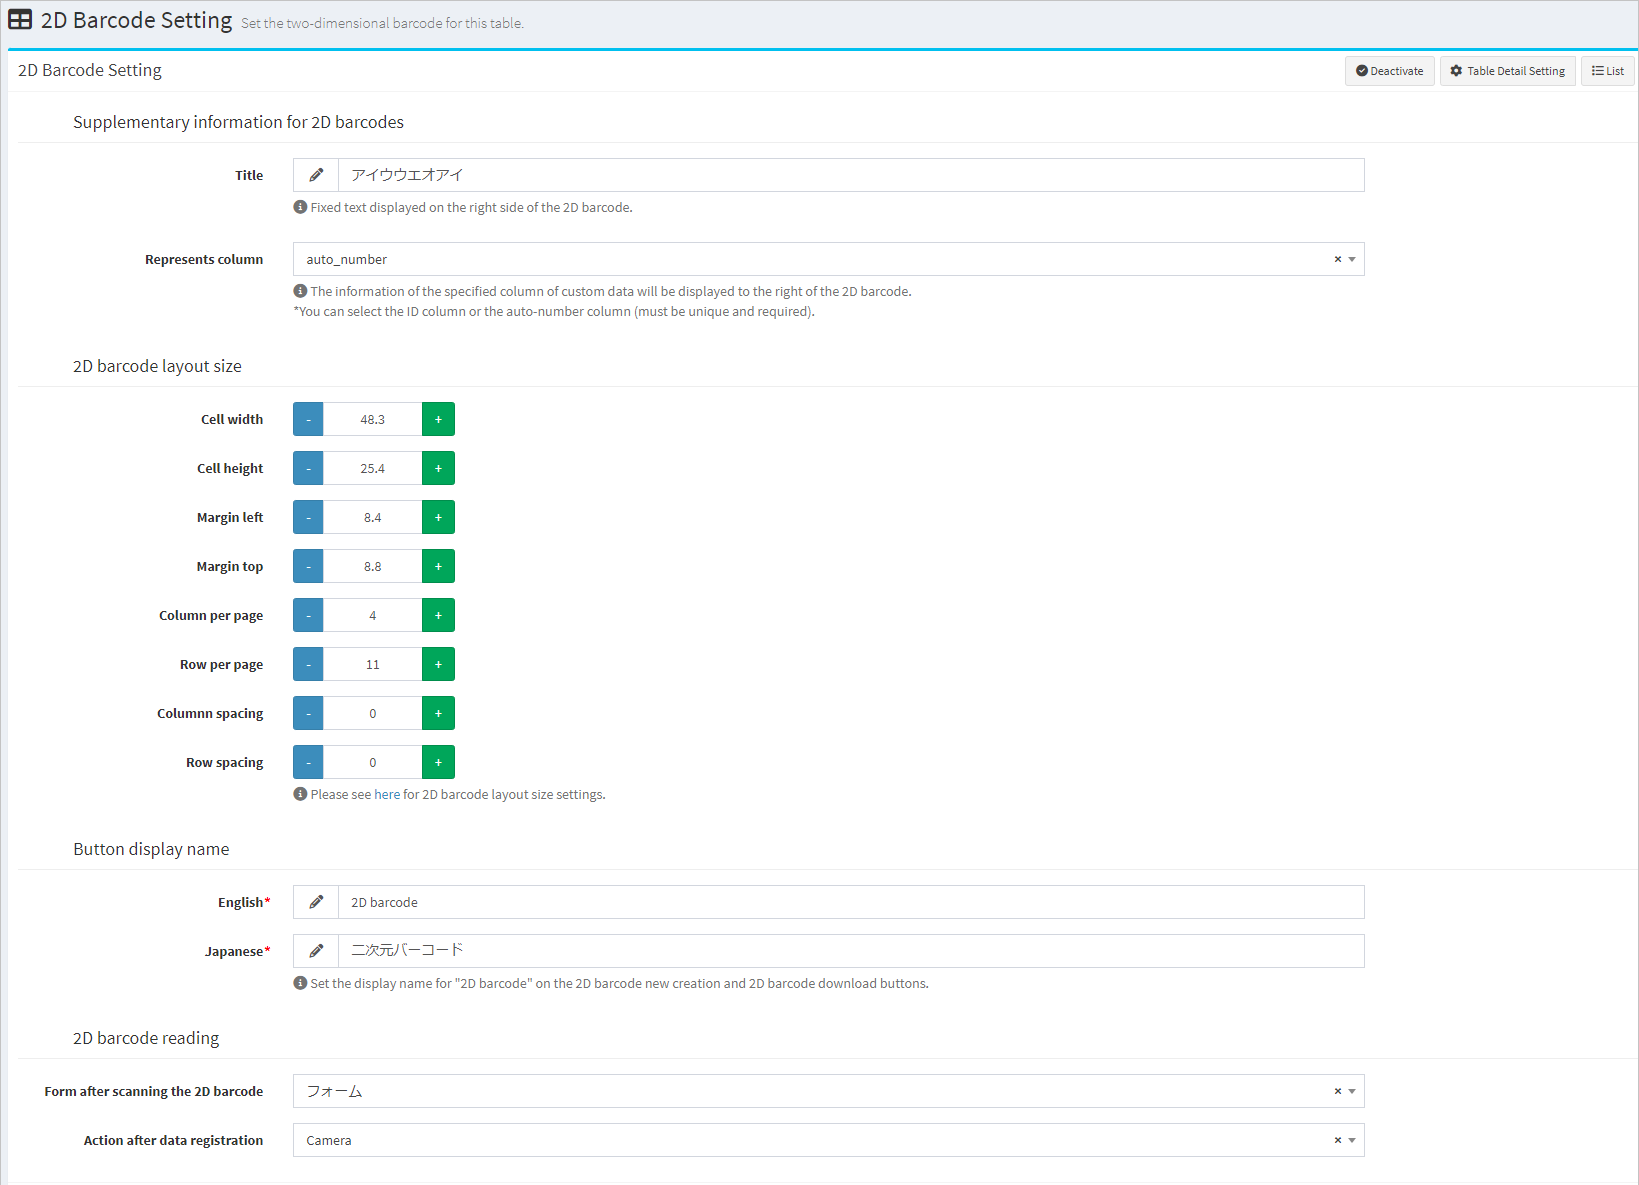
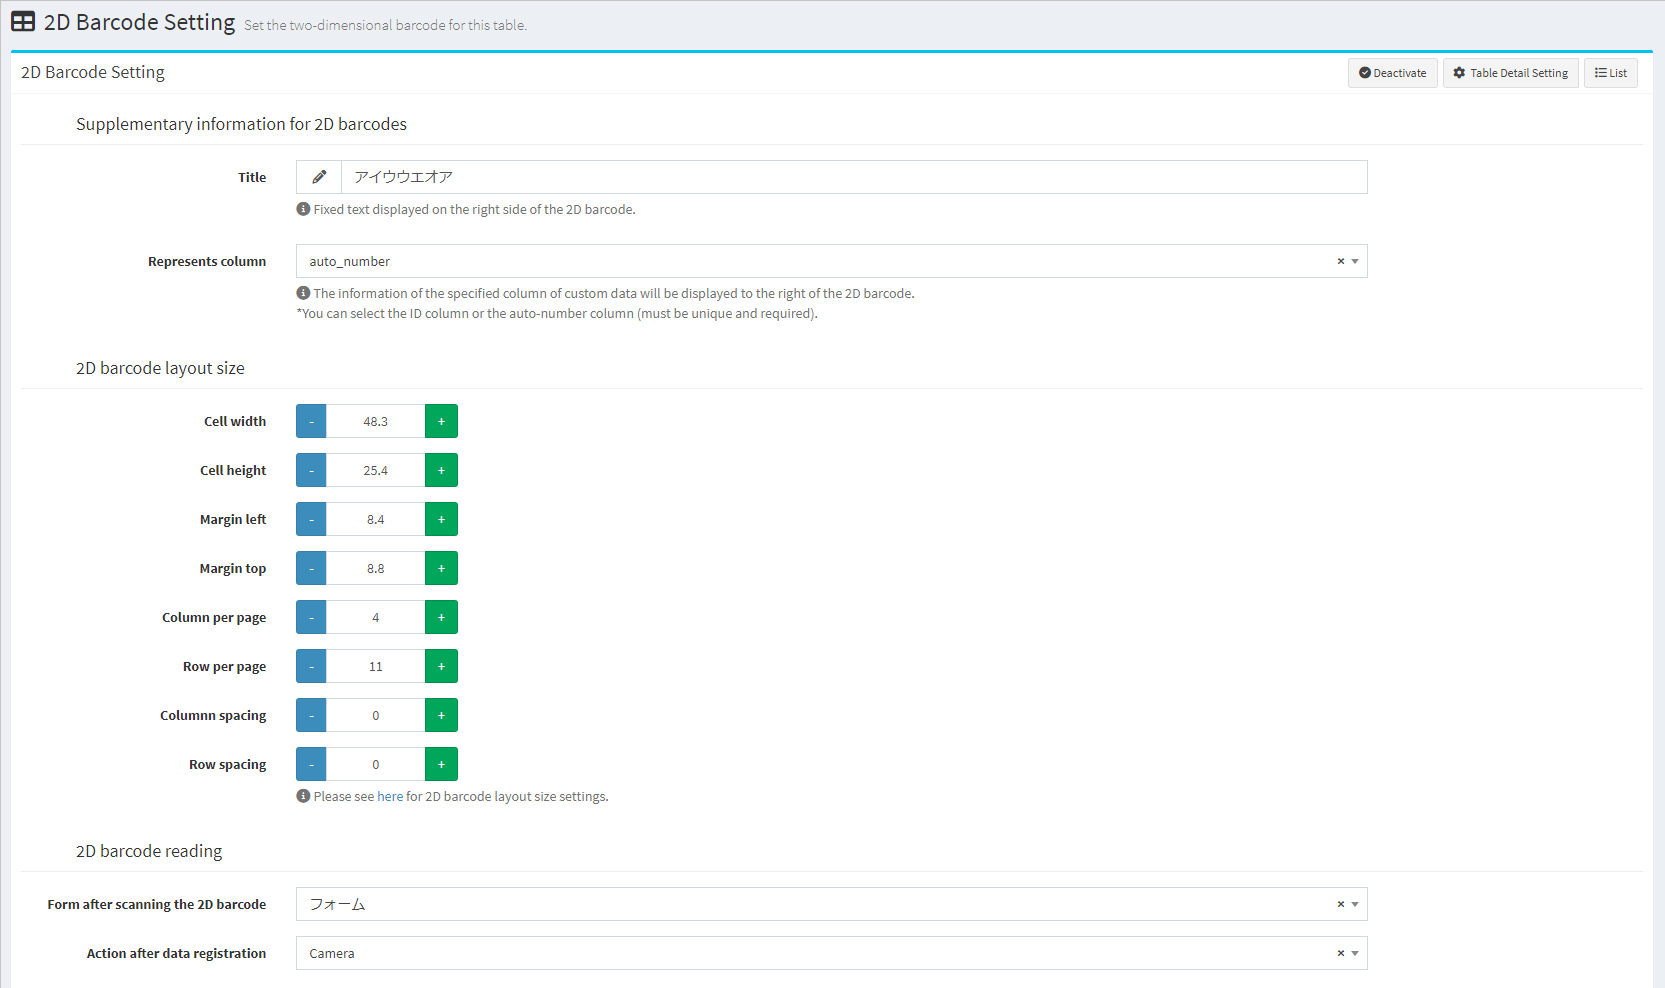
update manual qr code

diff --git a/docs/2d_barcode.md b/docs/2d_barcode.md
@@ -43,15 +43,6 @@ Please refer to the table below.
 
 ![2D barcode page](img/2d_barcode/barcode4.png)
 
-### Button display name
-Set the display name for "2D barcode" on the 2D barcode new creation and 2D barcode download buttons.
-
-- #### English
-Set the English display name for "2D barcode".
-
-- #### Japanese
-Set the Japanese display name for "2D barcode".
-
 ### 2D barcode reading
 Sets information for reading two-dimensional barcodes. 
 
@@ -71,7 +62,8 @@ After setting, click the "Save" button.
 ![2D barcode page](img/2d_barcode/barcode5.png)
 
 ## Create a new 2D barcode
-- After enabling the 2D barcode function, the "Create new 2D barcode" button will be displayed in the data list of the target table.
+- After enabling the 2D barcode function, the "Create new 2D barcode" button will be displayed in the data list of the target table.  
+You can change the display name of the "2D barcode" on the "Create new 2D barcode" button by changing "EXMENT_TEXT_QR_BUTTON_JA/EN" in the .env file.
 ![2D barcode page](img/2d_barcode/barcode6.png)
 
 - Click "Create new 2D barcode" to display the new 2D barcode creation screen.
@@ -81,7 +73,8 @@ After setting, click the "Save" button.
 ![2D barcode page](img/2d_barcode/barcode8.png)
 
 ## 2D barcode download
-- After enabling the 2D barcode function, a "2D barcode download" button will be displayed in the data list of the target table.
+- After enabling the 2D barcode function, a "2D barcode download" button will be displayed in the data list of the target table.  
+You can change the display name of the "2D barcode" on the "2D barcode download" button by changing "EXMENT_TEXT_QR_BUTTON_JA/EN" in the .env file.
 ![2D barcode page](img/2d_barcode/barcode9.png)
 
 - Select the target data and click "Download 2D barcode" to output the 2D barcode of the selected data as a PDF.
@@ -89,3 +82,7 @@ After setting, click the "Save" button.
 
 ![2D barcode page](img/2d_barcode/barcode11.png)
 
+## Launching the camera screen from Exment
+- From the Exment dashboard, you can launch the camera screen to read 2D barcodes.
+
+- For instructions on how to add the item "2D barcode reading" to the Exment dashboard, please see [here](/dashboard#_2d-barcode).

diff --git a/docs/dashboard.md b/docs/dashboard.md
@@ -85,20 +85,38 @@ Select the target to be displayed from the created tables in [Custom table setti
 Select the target to be displayed from [View](/view.md) in the selected target table.  
 
 ## system
-The system can be displayed on the dashboard.  
-※ Currently, "Guidelines" can be displayed.
+You can display system-related information on the dashboard.  
+※ Currently, you can display "Guidelines," "List of latest Exment information," "Editor," "HTML," "Notifications list," and "2D barcode."
 
-### System display example
-![Dashboard screen](img/dashboard/dashboard_system1.png)
-
-### System setting items
+### System settings
 ![Dashboard screen](img/dashboard/dashboard_system2.png)
 
 #### Item display name
-Enter the name of the item to be displayed on the screen.  
+Enter the name of the item to be displayed on the screen. 
 
-#### Display item
-By selecting "Guidelines", guidance information on the system can be displayed as in the display example.
+#### Display Items
+Select the items you want to view.
+
+- ##### Guidelines
+It can display information about the system.  
+![Dashboard screen](img/dashboard/dashboard_system1.png)
+
+- ##### Exment Latest News List
+The latest information is obtained and displayed from the Exment official website.
+![Dashboard screen](img/dashboard/dashboard_system3.png)
+
+- ##### Editor
+Enter the text freely and display it on the screen.
+![Dashboard screen](img/dashboard/dashboard_system4.png)
+
+- ##### HTML
+Enter the content in HTML format and display it on the screen. *Scripts will also be executed.
+![Dashboard screen](img/dashboard/dashboard_system5.png)
+
+- ##### 2D barcode
+Displays a 2D barcode read button.  
+You can change the display name of the "2D barcode" on the "Reading 2D Barcode" button by changing "EXMENT_TEXT_QR_BUTTON_JA/EN" in the .env file.
+![ダッシュボード画面](img/dashboard/dashboard_system6.png)
 
 ## chart
 Data managed by Exment's summary view can be converted into any format among 3 types of

diff --git a/docs/config.md b/docs/config.md
@@ -478,3 +478,14 @@ Due to the above background, <span class="red">please make this setting at your 
 - Default value ： false
 - Role : By setting to true when scheduling is executed, you can check the scheduling definition and the progress of execution. For details, please check [here](/additional_task_schedule) "Verification when it does not work".
 \* For verification.
+
+### 2D barcode
+#### Button display name (Japanese)
+- Setting key : EXMENT_TEXT_QR_BUTTON_JA
+- Default value : (None)
+- Role : Sets the Japanese display name of "二次元バーコード" for the Create new 2D barcode, Download 2D barcode, and Read 2D barcode buttons. If no special specification is specified, it will be "二次元バーコード".
+
+#### Button display name (English)
+- Setting key : EXMENT_TEXT_QR_BUTTON_EN
+- Default value : (None)
+- Role : Sets the Japanese display name of "2D barcode" for the Create new 2D barcode, Download 2D barcode, and Read 2D barcode buttons. If no special specification is specified, it will be "2D barcode".

diff --git a/docs/ja/config.md b/docs/ja/config.md
@@ -514,6 +514,6 @@ EXMENT_FILTER_SEARCH_FULL=true
 - 役割 : 二次元バーコード新規作成、二次元バーコードダウンロード、二次元バーコード読込ボタンの「二次元バーコード」の日本語表示名を設定します。特に指定がない場合は「二次元バーコード」とします。
 
 #### ボタン表示名（英語）
-- 設定キー : EXMENT_TEXT_QR_BUTTON_JA
+- 設定キー : EXMENT_TEXT_QR_BUTTON_EN
 - 既定値 : (なし)
 - 役割 : 二次元バーコード新規作成、二次元バーコードダウンロード、二次元バーコード読込ボタンの「二次元バーコード」の日本語表示名を設定します。特に指定がない場合は「2D barcode」とします。
